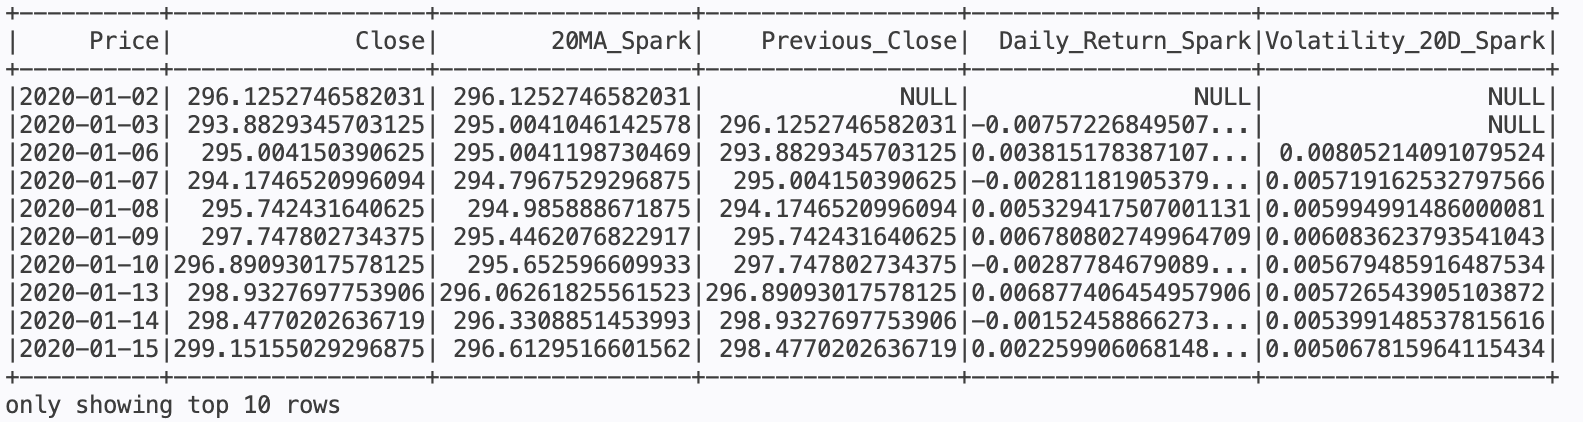
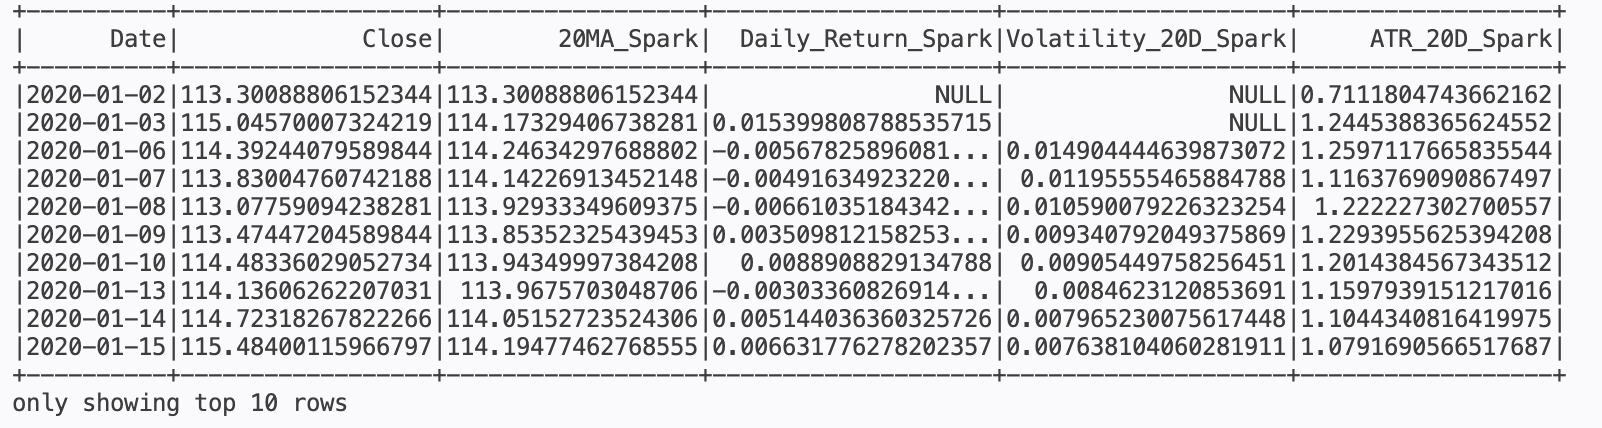
Update README and spark output preview

diff --git a/README.md b/README.md
@@ -1,24 +1,26 @@
 # Trading Data Pipeline
 
 A Data Engineering project that extracts financial market data,
-processes it with Pandas and PySpark, stores the results in
-CSV and Parquet formats, and uploads processed Parquet output
-to Azure Blob Storage.
+cleans and structures raw datasets, processes them with Pandas
+and PySpark, stores the results in CSV and Parquet formats,
+and uploads processed Parquet output to Azure Blob Storage.
 
 ## Project Workflow
 
 ```text
 Yahoo Finance
     ↓
-Extract Data
+Extract and clean raw market data
     ↓
 Raw CSV Files
     ↓
 Pandas Transformations
+(daily returns, moving averages, volatility, ATR)
     ↓
 Processed CSV / Parquet
     ↓
 PySpark Transformations
+(daily returns, moving averages, volatility, ATR)
     ↓
 Spark Parquet Output
     ↓
@@ -28,8 +30,9 @@ Azure Blob Storage
 ## Example Output
 
 The PySpark pipeline processes multiple market datasets and
-calculates indicators such as moving averages, daily returns
-and 20-day volatility before storing the results as Parquet files.
+calculates indicators such as moving averages, daily returns,
+20-day volatility and ATR before storing the results as
+Parquet files.
 
 ![PySpark Output](assets/pyspark_output.png)
 
@@ -46,18 +49,18 @@ Period:
 
 ## Features
 
+## Features
+
 - Extract market data from Yahoo Finance
-- Process multiple market tickers using both Pandas and PySpark
-- Calculate daily returns using Pandas
-- Calculate daily returns using PySpark
-- Calculate moving averages using Pandas
-- Calculate moving averages using PySpark
-- Calculate 20-day volatility using Pandas
-- Calculate 20-day volatility using PySpark
-- Store datasets in CSV format
-- Store datasets in Parquet format
-- Structured ETL pipeline
-- Upload multiple processed Parquet files to Azure Blob Storage
+- Clean and structure raw market data with a dedicated `Date` column
+- Process multiple market tickers using Pandas and PySpark
+- Calculate daily returns
+- Calculate moving averages
+- Calculate 20-day volatility
+- Calculate 20-day ATR (Average True Range)
+- Store processed datasets in CSV and Parquet format
+- Upload processed Parquet files to Azure Blob Storage
+- Use a structured ETL pipeline with configurable tickers, dates and paths
 
 ## Azure Upload
 
@@ -122,8 +125,8 @@ trading-data-pipeline/
 
 ## Planned Improvements
 
+- Create output directories automatically when the pipeline runs
 - Make the upload step reusable for different file types and containers
 - Add basic validation and logging to the transformation and upload steps
-- Add more market indicators, such as ATR and rolling volume
-- Expand the PySpark pipeline with additional transformations
+- Add more market indicators, such as rolling volume
 - Explore a Databricks-based version of the pipeline